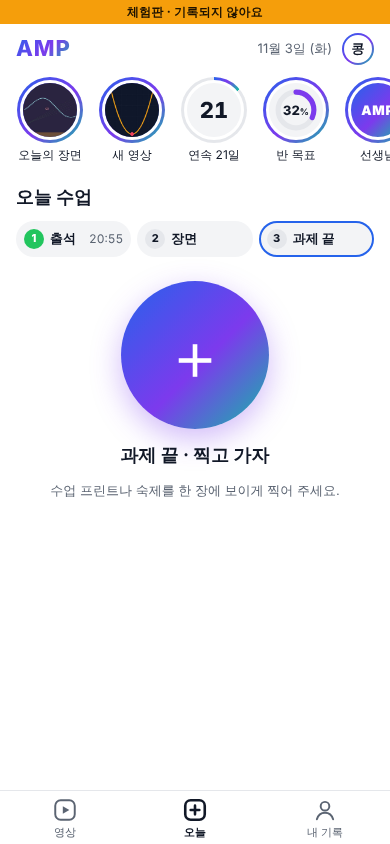
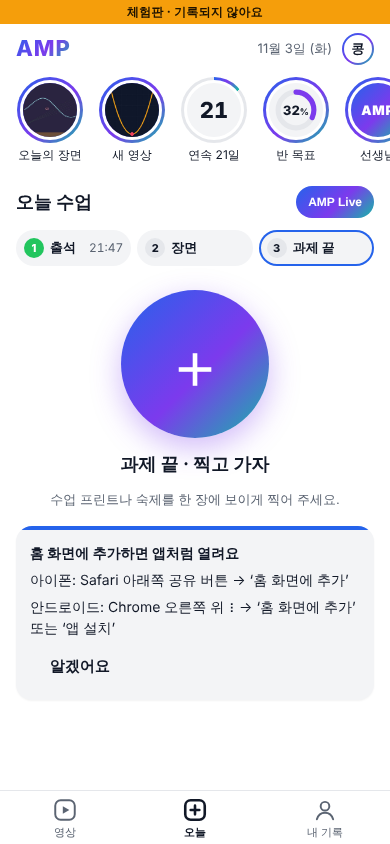
F9 fixes + refreshed screenshots: offline queue lease, quiet projector close
An offline photo is claimed with a 60 s lease in one IndexedDB
transaction and deleted only after a confirmed upload (no double send
across tabs or reloads, nothing lost if a page dies mid-upload). A
projector poll right after 방 닫기 answers {open:false}. Screenshots
refreshed on purpose, adding the Teacher tab, the Live projector and a
Live phone. README/HANDOFF status after F6-F9.

Claude-Session: https://claude.ai/code/session_01GqckysMirnb8kacWBYz73B

diff --git a/static/app.js b/static/app.js
@@ -704,22 +704,43 @@
     function qPut(rec) { return qTx('readwrite', function (st) { st.put(rec); }); }
     function qAll() { return qTx('readonly', function (st) { return st.getAll(); }); }
     function qDel(key) { return qTx('readwrite', function (st) { st.delete(key); }); }
+    /* claim this student's queued photos with a short lease in ONE read-write transaction (IndexedDB serialises
+       those across tabs and page loads): only the claimer sends; the record is deleted only after a confirmed upload,
+       so a page that dies mid-upload loses nothing (the lease expires and the next open retries) */
+    var LEASE_MS = 60000;
+    function qClaim() {
+      var now = Date.now(), me = Math.random().toString(36).slice(2);
+      return idb().then(function (db) {
+        return new Promise(function (res, rej) {
+          var tx = db.transaction('queue', 'readwrite'), st = tx.objectStore('queue'), got = [];
+          var rq = st.getAll();
+          rq.onsuccess = function () {
+            (rq.result || []).forEach(function (r) {
+              if (r.key.indexOf(tok + ':') !== 0 || (r.lease && now - r.lease < LEASE_MS)) return;
+              r.lease = now; r.owner = me; st.put(r); got.push(r);
+            });
+          };
+          tx.oncomplete = function () { res(got); };
+          tx.onerror = function () { rej(tx.error); };
+        });
+      });
+    }
+    function qRelease(rec) { rec.lease = 0; return qPut(rec); }
     var flushing = false;
     function flushQueue() {
       if (flushing || TASTE || !D.worker || navigator.onLine === false) return;
       flushing = true;
-      qAll().then(function (recs) {
-        recs = (recs || []).filter(function (r) { return r.key.indexOf(tok + ':') === 0; });
+      qClaim().then(function (recs) {
         return recs.reduce(function (p, rec) {
           return p.then(function () {
             return sendRec(rec).then(function (j) {
-              if (j.ok || (j.status && j.status < 500 && j.status !== 429)) {
-                return qDel(rec.key).then(function () { if (j.ok) onResult(j); });
-              }
-            });
+              if (j.ok) return qDel(rec.key).then(function () { onResult(j); });
+              if (!j.status || j.status >= 500 || j.status === 429) return qRelease(rec);   /* try again later */
+              return qDel(rec.key);                                                           /* refused for good */
+            }, function () { return qRelease(rec); });                                       /* still offline */
           });
         }, Promise.resolve());
-      }).catch(function () { /* still offline: next time */ }).then(function () { flushing = false; });
+      }).catch(function () { /* no IndexedDB: nothing queued */ }).then(function () { flushing = false; });
     }
     window.addEventListener('online', flushQueue);
     window.addEventListener('load', function () {

diff --git a/console/board.py b/console/board.py
@@ -308,6 +308,8 @@ def make_handler(board: Board):
                 return self._json({"sets": L.list_sets(board.cfg), "open": board.live and {k: board.live[k] for k in ("room", "title")}})
             if path == "/api/live/state":
                 from . import live as L
+                if not board.live:          # a poll that lands just after 방 닫기: an answer, not an error
+                    return self._json({"ok": True, "open": False})
                 try:
                     return self._json(board.live_call("state"))
                 except (L.LiveError, PullError) as e:

diff --git a/DECISIONS.md b/DECISIONS.md
@@ -175,6 +175,7 @@ One line each. "deferred" = not built in P0, on purpose.
 - Everything calls the CLI's functions (`ops.edit_student` is now shared with `roster edit`; `suggest_notes(include_existing=True)` prefills every row). One pytest per action through the HTTP layer.
 - The board server now answers only when the Host header is 127.0.0.1/localhost on its port (blocks DNS-rebinding reads of the console) and still refuses cross-origin writes. `teacher.js` is never copied into `dist/`.
 - The board is per class (`daybook board 고1A`); the Teacher tab works on that class, and 발행 publishes everything.
+- A projector poll that lands just after 방 닫기 gets `{open: false}` (200), not an error.
 
 ## F7: AMP Live prototype (2026-11-03)
 - Free-plan finding: SQLite-backed Durable Objects are on the Workers Free plan (the key-value backend is Paid only): 100,000 requests/day, 5 M rows read, 100 k rows written, 13,000 GB-s/day, 5 GB. Source: Cloudflare's DO pricing/limits pages as quoted by a web search (developers.cloudflare.com itself is not reachable from the build's network): **re-check the official page before the first Live class.**
@@ -205,7 +206,7 @@ One line each. "deferred" = not built in P0, on purpose.
 
 ## F9: offline and install (2026-11-03)
 - A service worker (`dist/sw.js`, served from the root, scope `/s/` only) caches the student page shell: pages network-first with the last copy as the offline fallback (so a new publish shows as soon as there is a connection), `/static/` cache-first. It never touches the Worker (another origin) or the parent pages.
-- A photo submitted without a connection is shrunk as usual and kept in IndexedDB (`daybook` → `queue`, one record per student per day, the newest photo wins); the 오늘 tab shows "보낼 준비 완료". It is sent on the next page open with a connection or on the browser's `online` event, then removed; the e2e checks it arrives exactly once.
+- A photo submitted without a connection is shrunk as usual and kept in IndexedDB (`daybook` → `queue`, one record per student per day, the newest photo wins); the 오늘 tab shows "보낼 준비 완료". It is sent on the next page open with a connection or on the browser's `online` event. A sender first **claims** the record with a 60 s lease in one IndexedDB read-write transaction (serialised across tabs and page loads) and deletes it only after a confirmed upload, so two tabs never send it twice and a page that dies mid-upload loses nothing (the lease expires, the next open retries; at worst a harmless same-day replacement). The e2e checks it arrives exactly once, also under the slower screenshot run that first exposed a double send.
 - The Worker dates a queued photo by when it arrives (it never trusts a date from the phone), so a photo queued at 23:50 and sent after midnight counts for the next day.
 - "홈 화면에 추가" card (iPhone Safari steps, Android Chrome steps) on the 오늘 tab, shown once per phone and never inside the installed app.
 

diff --git a/HANDOFF.md b/HANDOFF.md
@@ -4,20 +4,19 @@ The cloud build used synthetic data only. Real students, phones, scores and note
 in `daybook.sqlite` (gitignored), and on the deployed pages behind unguessable links. Never commit `daybook.sqlite`,
 `daybook.json`, `dist/`, a real roster CSV or real screener snapshots. Never deploy to GitHub Pages.
 
-## 0. State at handoff (2026-11-03, after DESIGN v2 and features F1–F5)
+## 0. State at handoff (2026-11-04, after F6–F9)
 
-- `main` on GitHub is green from a clean clone (Python 3.12/3.13, Node 22): 97 pytest, 22 Worker node tests,
-  136 Playwright checks. Windows: `scripts\demo.ps1`, `scripts\check.ps1` (written without a PowerShell to run them
-  here: please run them once on the laptop and report).
-- Built: P0 (P1–P3), DESIGN v1 + v2, Windows/UTF-8 fixes, the raw-id lint, F1 taste build (콩), F2 출석, F3 오늘 한 줄,
-  F4 오늘의 장면, F5 (class cancel, QR, class band, term report, note suggest). See `DECISIONS.md`.
-- **Hotfix H1–H6 (D1).** Before the Worker deploy, create the D1 database once and paste its id into
-  `worker/wrangler.toml`: `cd worker && npx wrangler d1 create daybook`, then `npx wrangler deploy`. Then run
-  `daybook publish` once: it sends the student links (token map) the Worker now requires for uploads.
-- Node ≥ 22 for the Worker tests. Please run `scripts\demo.ps1` on Windows PowerShell 5.1 and report (H5 was fixed
-  without a PowerShell to run it here).
-- Console schema is v5; an existing `daybook.sqlite` is migrated automatically (additive, no data lost) by the next command.
-- Not done here: the Cloudflare deploys, a real-phone install test, live webcam capture on the board (deferred).
+- `main` is green from a clean clone: 120 pytest, 32 Worker node tests (incl. the class-day budget with an AMP Live
+  round), the full Playwright check. A normal check run leaves `git status` clean (F0); `make screenshots` /
+  `scripts\check.ps1 -Screenshots` refresh the committed screenshots on purpose.
+- Built: P0, design v2, F1–F9, hotfix H1–H6. See `DECISIONS.md` for every choice; F8 (answer cards) is a spike only.
+- Deploy order for the real Worker: `wrangler d1 create daybook` (paste the id), `wrangler deploy` (also creates the
+  AMP Live Durable Object), then `daybook publish` once (sends the student links).
+- Re-check Cloudflare's Durable Objects free-plan page once before the first Live class (the cloud build could not
+  reach developers.cloudflare.com; DECISIONS, F7).
+- Console schema is v6 (adds `class_bonus`); an existing `daybook.sqlite` is migrated automatically.
+- Not done here: the Cloudflare deploys, a real-phone install test, Live over WebSockets (polling is used),
+  a webcam capture on the board.
 
 ### The repo
 Everything is on `https://github.com/MasonKat/daybook` (private), branch `main`. If you ever receive a git bundle instead:

diff --git a/README.md b/README.md
@@ -1,11 +1,12 @@
 # DAYBOOK (P0)
 
-**Status (2026-11-03: P0, design v2, features F1–F5):**
+**Status (2026-11-04: P0, design v2, F1–F9, hotfix H1–H6):**
 1. P1 complete and tested: schema + `students_public`, `init`, `demo`, `roster add/list/import`, Worker `/submit` + `/submissions`, student 오늘 tab, `pull`, parent page, `publish` + no-PII lint, `import screeners`, deploy steps.
 2. P2 complete: board + attitude buttons, `score`, class reward bar, `note`, `weekly`, Playwright checks. P3: manifest/icons/standalone, `rotate-tokens`, `export pdf` stub, Worker node tests.
-3. `make demo` is green from a clean clone (Python 3.12/3.13, Node 22): 104 pytest + 27 Worker node tests (incl. the class-day budget) + 136 Playwright checks (every page at 360 and 390 px, light and dark). Windows: `scripts\demo.ps1`.
+3. `make demo` is green from a clean clone (Python 3.12/3.13, Node 22): 120 pytest + 32 Worker node tests (incl. the class-day budget with a Live round) + the Playwright end-to-end check (every page at 360 and 390 px, light and dark). Windows: `scripts\demo.ps1`.
    Design v2: shorts reels + 강의 cards, story rings with content, status-coloured profile tiles, one weekly report per parent message.
-4. Features: taste build (콩, `make deploy-taste`), 출석 with a 4-digit code, 오늘 한 줄, 오늘의 장면 + reactions, 휴강, QR sheet, class band, term report, note drafts.
+4. Features: taste build (콩, `make deploy-taste`), 출석 with a 4-digit code, 오늘 한 줄, 오늘의 장면 + reactions, 휴강, QR sheet, class band, term report, note drafts,
+   the Teacher tab (no terminal on Saturdays), AMP Live (cooperative in-class rounds), the answer-card spike, an offline-capable student page.
    Not done here (needs the teacher): the Cloudflare deploys (redeploy the Worker for 출석/장면), a real-phone install test. Deferred items: `DECISIONS.md`.
 5. Real data is attached by the local agents: see `HANDOFF.md`. This repo holds synthetic data only.
 
@@ -212,5 +213,6 @@ Locally, `node worker/test/dev_server.mjs` runs the same Worker on http://127.0.
   screen), tap ▶ → nocookie iframe, the 목록 grid, the profile grid, `/go`, pull → parent room ✓ (opens at the
   bottom), and the board buttons. Screenshots go to `demo/screenshots/`.
 
-Screenshots (synthetic data, 390 px): `demo/screenshots/student-stories.png`, `student-reels.png`, `student-long.png`,
-`student-done.png`, `student-profile.png`, `parent-light.png`, `parent-dark.png`, `board.png`.
+Screenshots (synthetic data, 390 px; refreshed only on purpose with `make screenshots` / `check.ps1 -Screenshots`):
+`demo/screenshots/student-*.png`, `parent-light.png`, `parent-dark.png`, `board.png`, `teacher.png`, `live-projector.png`,
+`live-phone.png`, `taste-*.png`.
